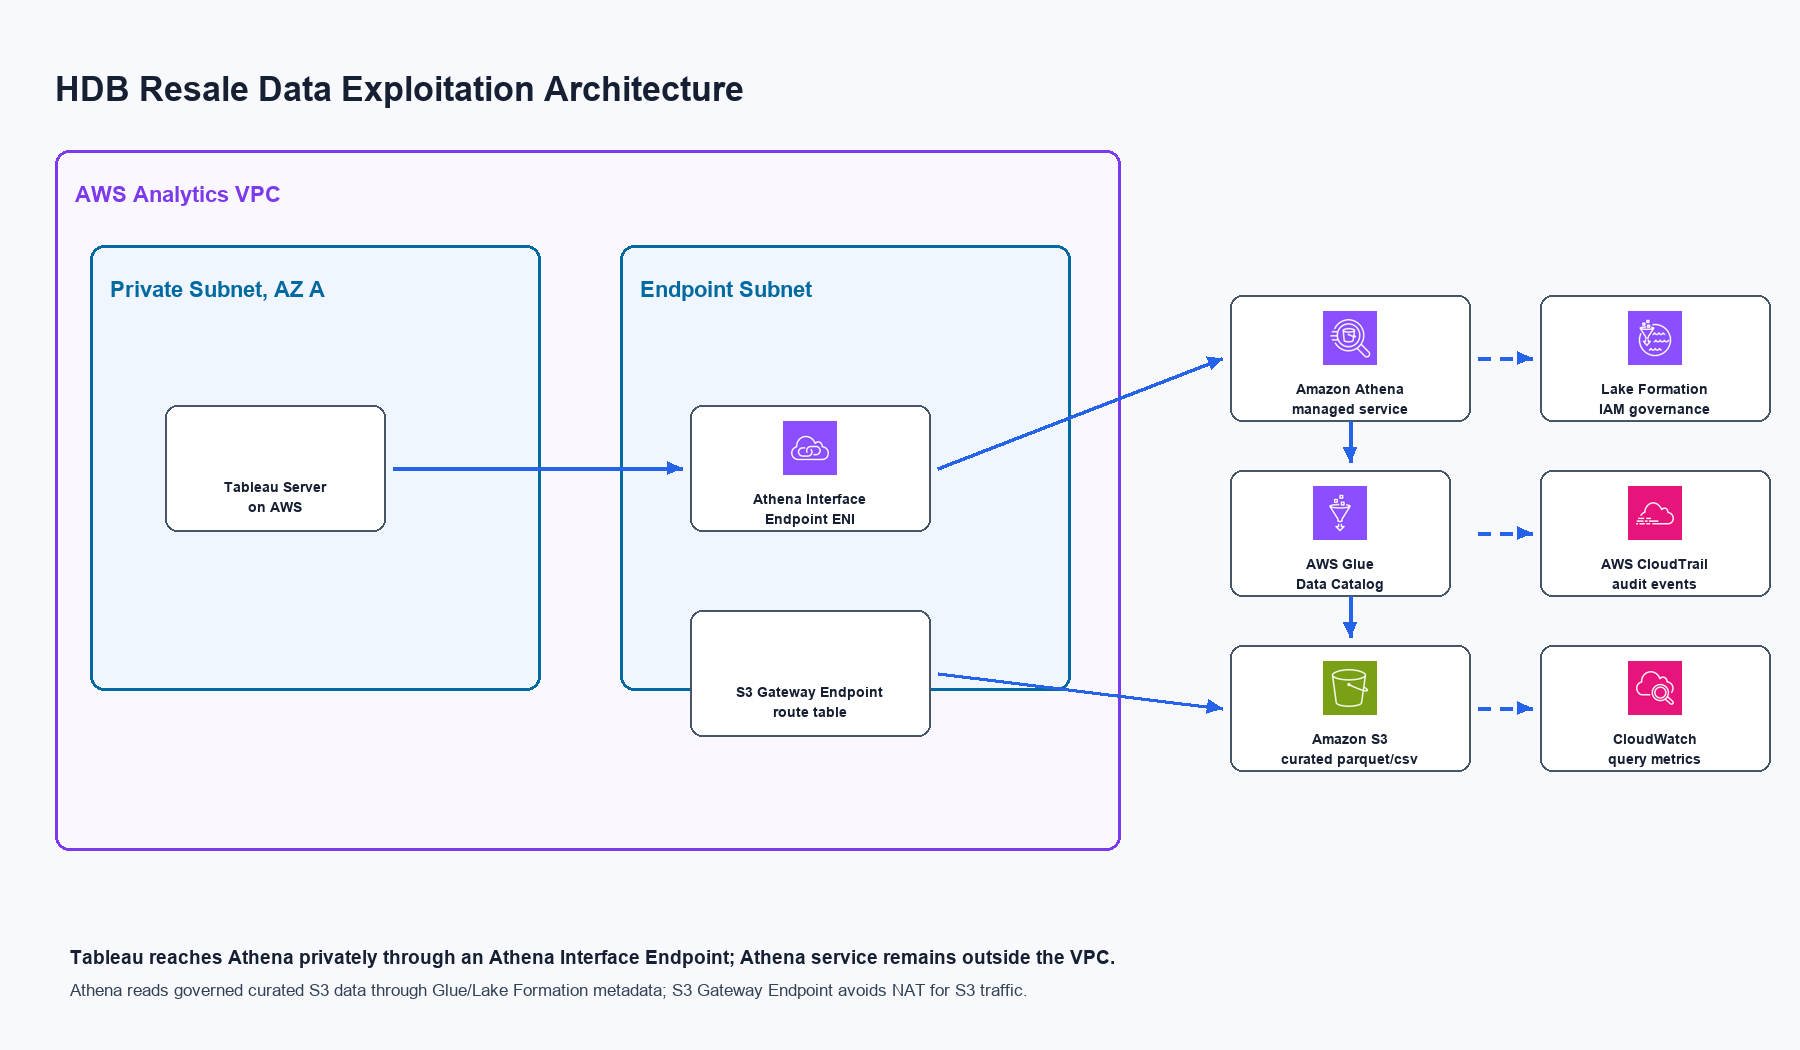
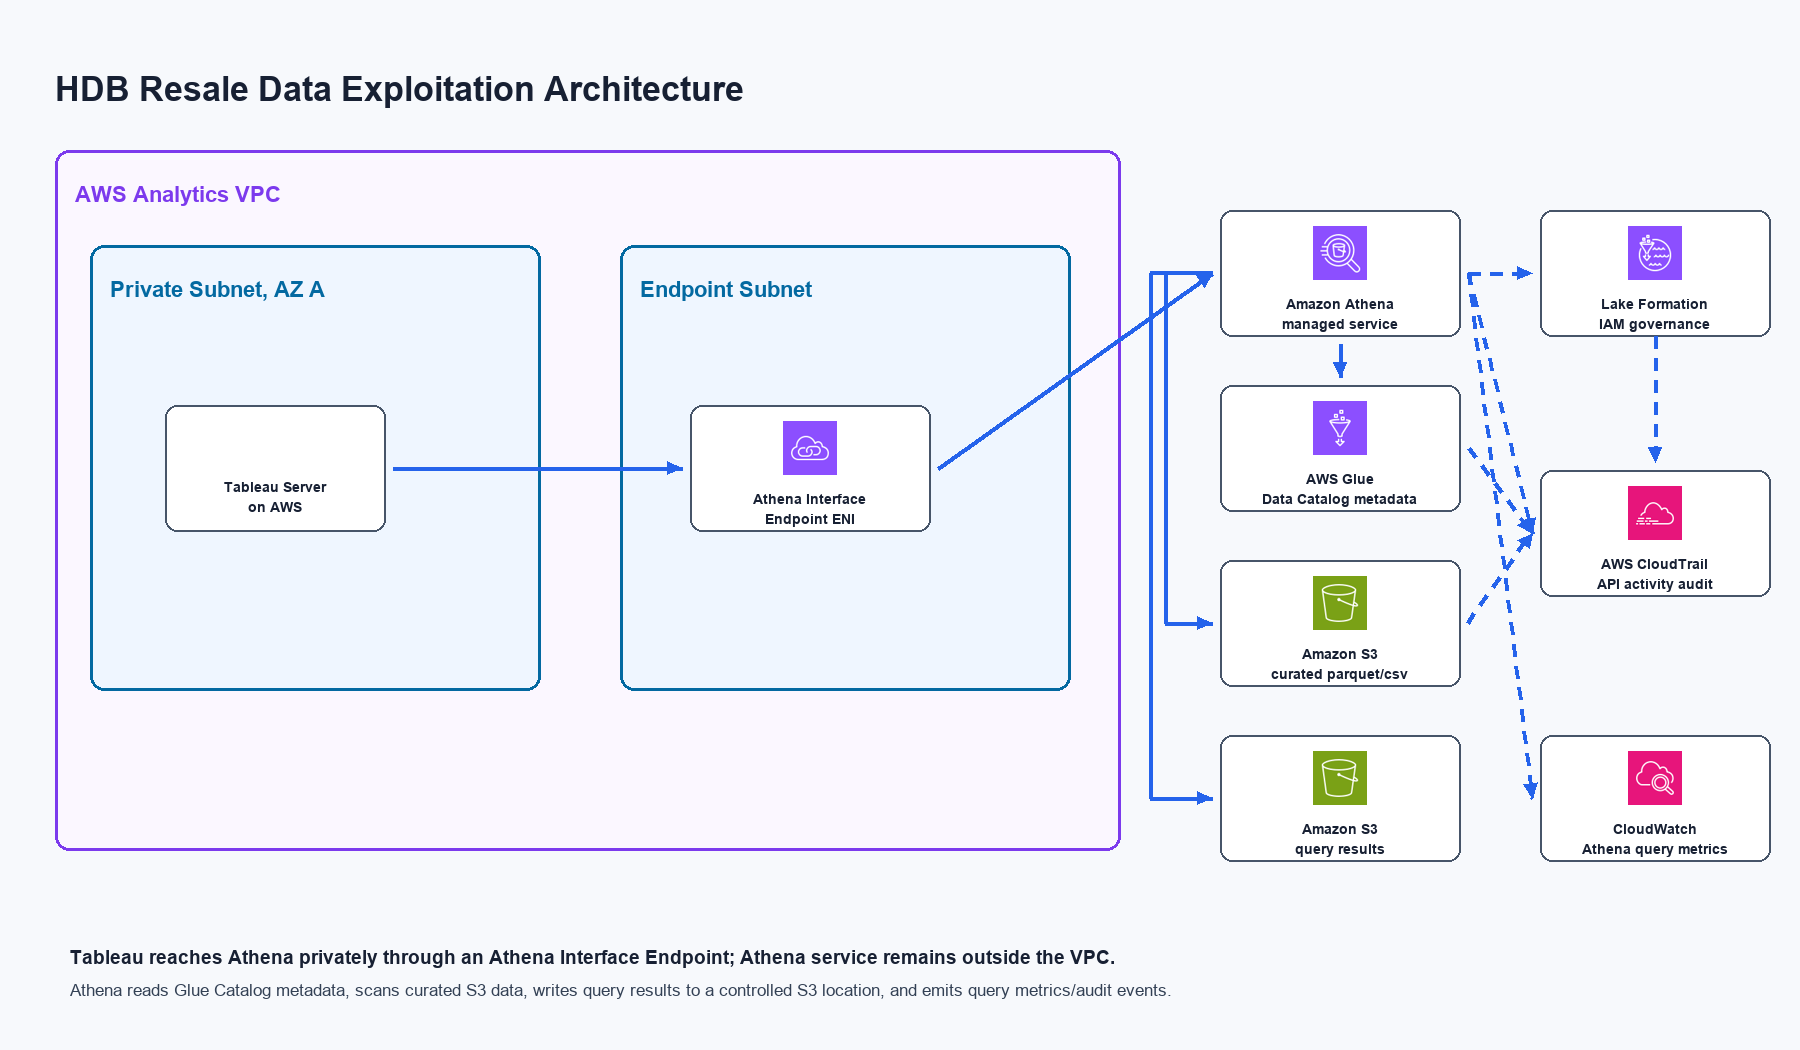
Correct AWS architecture diagrams

diff --git a/src/hdb_resale_etl/architecture_diagrams.py b/src/hdb_resale_etl/architecture_diagrams.py
@@ -242,7 +242,8 @@ def _ingestion_diagram() -> Diagram:
             Node("s3curated", "Amazon S3\ncurated zone", 1345, 535, icon="amazon-s3.png", w=210),
             Node("glue", "AWS Glue\nData Catalog", 1345, 710, icon="aws-glue.png", w=210),
             Node("cloudwatch", "CloudWatch Logs\nand metrics", 1570, 535, icon="amazon-cloudwatch.png", w=210),
-            Node("dlq", "Retry policy\nand DLQ", 1570, 710, fill=COLORS["failure"], w=210),
+            Node("dlq", "Scheduler retry\nand DLQ", 1570, 710, fill=COLORS["failure"], w=210),
+            Node("task_failure", "ECS task failed\nEventBridge rule", 1570, 810, fill=COLORS["failure"], w=210),
             Node("secrets", "AWS Secrets Manager\nmanaged secrets", 1570, 360, icon="aws-secrets-manager.png", w=210),
         ],
         arrows=[
@@ -257,10 +258,11 @@ def _ingestion_diagram() -> Diagram:
             ([(1128, 636), (1310, 636), (1310, 773), (1337, 773)], False),
             ([(1278, 793), (1285, 793), (1285, 330), (1675, 330), (1675, 352)], True),
             ([(1128, 580), (1280, 580), (1280, 510), (1675, 510), (1675, 527)], True),
-            ([(1128, 646), (1280, 646), (1280, 900), (1675, 900), (1675, 844)], True),
+            ([(910, 296), (910, 320), (1790, 320), (1790, 773), (1788, 773)], True),
+            ([(1128, 646), (1280, 646), (1280, 930), (1562, 873)], True),
         ],
-        footer_title="EventBridge Scheduler starts ECS/Fargate RunTask; only outbound data.gov.sg traffic uses NAT Gateway -> Internet Gateway.",
-        footer_note="AWS managed services sit outside subnets; Fargate reaches S3 through a Gateway Endpoint and Secrets Manager through an Interface Endpoint ENI.",
+        footer_title="EventBridge Scheduler starts ECS/Fargate RunTask; scheduler invocation failures use Scheduler retry/DLQ.",
+        footer_note="Public internet traffic to data.gov.sg and AWS services without VPC endpoints uses NAT Gateway; ECS task STOPPED failures are handled through EventBridge task-state events.",
     )
 
 
@@ -275,26 +277,29 @@ def _exploitation_diagram() -> Diagram:
         nodes=[
             Node("tableau", "Tableau Server\non AWS", 165, 405),
             Node("athena_ep", "Athena Interface\nEndpoint ENI", 690, 405, icon="aws-privatelink.png", w=240),
-            Node("s3_endpoint", "S3 Gateway Endpoint\nroute table", 690, 610, w=240),
-            Node("athena", "Amazon Athena\nmanaged service", 1230, 295, icon="amazon-athena.png", w=240),
-            Node("catalog", "AWS Glue\nData Catalog", 1230, 470, icon="aws-glue.png"),
-            Node("s3", "Amazon S3\ncurated parquet/csv", 1230, 645, icon="amazon-s3.png", w=240),
-            Node("lake", "Lake Formation\nIAM governance", 1540, 295, icon="aws-lake-formation.png", w=230),
-            Node("cloudtrail", "AWS CloudTrail\naudit events", 1540, 470, icon="aws-cloudtrail.png", w=230),
-            Node("cloudwatch", "CloudWatch\nquery metrics", 1540, 645, icon="amazon-cloudwatch.png", w=230),
+            Node("athena", "Amazon Athena\nmanaged service", 1220, 210, icon="amazon-athena.png", w=240),
+            Node("catalog", "AWS Glue\nData Catalog metadata", 1220, 385, icon="aws-glue.png", w=240),
+            Node("s3", "Amazon S3\ncurated parquet/csv", 1220, 560, icon="amazon-s3.png", w=240),
+            Node("results", "Amazon S3\nquery results", 1220, 735, icon="amazon-s3.png", w=240),
+            Node("lake", "Lake Formation\nIAM governance", 1540, 210, icon="aws-lake-formation.png", w=230),
+            Node("cloudtrail", "AWS CloudTrail\nAPI activity audit", 1540, 470, icon="aws-cloudtrail.png", w=230),
+            Node("cloudwatch", "CloudWatch\nAthena query metrics", 1540, 735, icon="amazon-cloudwatch.png", w=230),
         ],
         arrows=[
             ([(393, 468), (682, 468)], False),
-            ([(938, 468), (1222, 358)], False),
-            ([(938, 673), (1222, 708)], False),
-            ([(1478, 358), (1532, 358)], True),
-            ([(1478, 533), (1532, 533)], True),
-            ([(1478, 708), (1532, 708)], True),
-            ([(1350, 421), (1350, 462)], False),
-            ([(1350, 596), (1350, 637)], False),
+            ([(938, 468), (1212, 273)], False),
+            ([(1340, 344), (1340, 377)], False),
+            ([(1212, 273), (1165, 273), (1165, 623), (1212, 623)], False),
+            ([(1212, 273), (1150, 273), (1150, 798), (1212, 798)], False),
+            ([(1468, 273), (1532, 273)], True),
+            ([(1468, 273), (1532, 533)], True),
+            ([(1468, 448), (1532, 533)], True),
+            ([(1468, 623), (1532, 533)], True),
+            ([(1655, 336), (1655, 462)], True),
+            ([(1468, 273), (1532, 798)], True),
         ],
         footer_title="Tableau reaches Athena privately through an Athena Interface Endpoint; Athena service remains outside the VPC.",
-        footer_note="Athena reads governed curated S3 data through Glue/Lake Formation metadata; S3 Gateway Endpoint avoids NAT for S3 traffic.",
+        footer_note="Athena reads Glue Catalog metadata, scans curated S3 data, writes query results to a controlled S3 location, and emits query metrics/audit events.",
     )
 
 

diff --git a/architecture/architecture_notes.md b/architecture/architecture_notes.md
@@ -14,14 +14,17 @@ The ingestion design supports scheduled batch pulls from data.gov.sg, including 
 
 - EventBridge Scheduler triggers ECS/Fargate `RunTask` monthly or on demand.
 - ECS Fargate runs the Python pipeline in a private subnet using a task ENI.
-- The runtime reaches data.gov.sg through controlled outbound egress: private Fargate task -> private route table -> NAT Gateway in a public subnet -> Internet Gateway -> data.gov.sg.
+- Public internet traffic to data.gov.sg and AWS services without configured VPC endpoints uses controlled outbound egress: private Fargate task -> private route table -> NAT Gateway in a public subnet -> Internet Gateway.
 - S3 traffic uses an S3 Gateway Endpoint where applicable, avoiding NAT for S3 access.
 - Secrets Manager access uses an Interface Endpoint ENI in the private subnet.
+- In a production private-subnet setup, additional interface endpoints can be added for ECR API, ECR DKR, CloudWatch Logs, Glue, KMS, and STS to reduce NAT dependency.
 - Raw files are written to an immutable S3 raw zone.
 - Cleaned, transformed, failed, and hashed outputs are written to curated S3 prefixes.
 - Glue Data Catalog stores schemas and partitions for downstream Athena queries.
 - CloudWatch and CloudTrail provide operational logs and audit records.
-- Failed task attempts are retried through scheduler/task retry policy and routed to a DLQ or failure-handling target for operations follow-up.
+- EventBridge Scheduler retry and DLQ handle failures to invoke the ECS `RunTask` target.
+- ECS task runtime failures are handled separately through ECS task state change events, for example a STOPPED non-zero-exit task triggering an EventBridge rule and SNS/SQS alert or failure handler.
+- A production task-level retry design can route Scheduler -> Step Functions -> ECS Fargate so Step Functions can wait for completion and apply `Retry` and `Catch`.
 
 ## Data Exploitation
 
@@ -29,10 +32,12 @@ The exploitation design supports Tableau on AWS using the Athena driver.
 
 - Tableau runs inside private AWS network segments.
 - Tableau reaches Athena privately through an Athena Interface VPC Endpoint ENI; Athena itself remains an AWS managed service outside the VPC.
-- Athena queries curated S3 data through Glue Catalog metadata.
-- S3 access uses a Gateway Endpoint where applicable so S3 traffic does not require NAT.
+- Athena reads schema and partition metadata from AWS Glue Data Catalog.
+- Athena scans actual curated data directly in Amazon S3; this access is performed by the Athena managed service, not by Tableau through the VPC S3 Gateway Endpoint.
+- Athena writes query results to a controlled Amazon S3 result bucket or prefix. The Athena workgroup should enforce the result location, encryption, and lifecycle policy.
 - Lake Formation and IAM govern table, column, and S3 permissions.
-- Query results and logs are stored in controlled S3 buckets.
+- Athena emits query metrics to CloudWatch.
+- CloudTrail is treated as a cross-cutting audit capability for Athena, Glue, S3, and Lake Formation API activity.
 
 ## Security, Scalability, and Performance
 

diff --git a/README.md b/README.md
@@ -143,11 +143,12 @@ src/hdb_resale_etl/architecture_diagrams.py
 
 The architecture covers:
 
-- EventBridge Scheduler triggering ECS/Fargate RunTask in a private subnet.
-- Batch ingestion from public data.gov.sg with NAT Gateway in a public subnet only for controlled outbound source access.
-- Raw and curated storage on S3.
-- S3 Gateway Endpoint, Secrets Manager Interface Endpoint ENI, Glue Catalog, Athena, Lake Formation, CloudWatch, retry, and DLQ patterns.
-- Tableau on AWS using an Athena Interface Endpoint and Athena driver.
+- EventBridge Scheduler triggering ECS/Fargate RunTask in a private subnet, with Scheduler retry/DLQ for invocation failures.
+- ECS task runtime failure handling through ECS task state change events and an EventBridge alert or failure-handler rule.
+- Batch ingestion from public data.gov.sg with NAT Gateway in a public subnet for public internet traffic to data.gov.sg and AWS services without configured VPC endpoints.
+- Raw, curated, and Athena query-result storage on S3.
+- S3 Gateway Endpoint and Secrets Manager Interface Endpoint ENI for the ingestion runtime, with optional production endpoints for ECR, CloudWatch Logs, Glue, KMS, and STS.
+- Tableau on AWS using an Athena Interface Endpoint and Athena driver; Athena reads Glue Catalog metadata, scans curated S3 data directly, writes S3 query results, emits CloudWatch query metrics, and records API activity through CloudTrail.
 - Security, scalability, performance considerations, and AWS Architecture Icons in the final diagrams.
 
 ## Future Improvements
